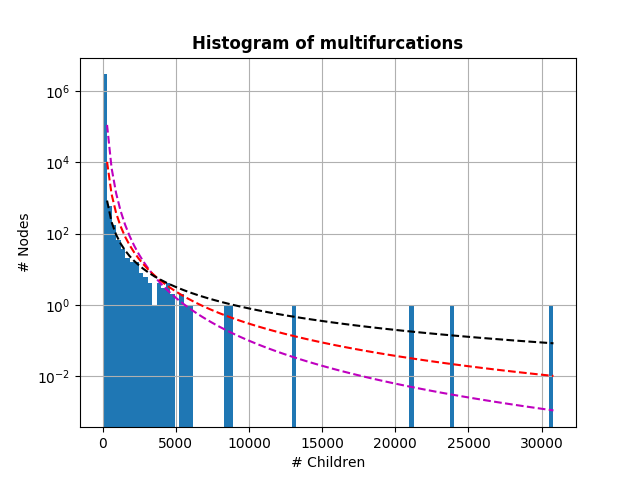
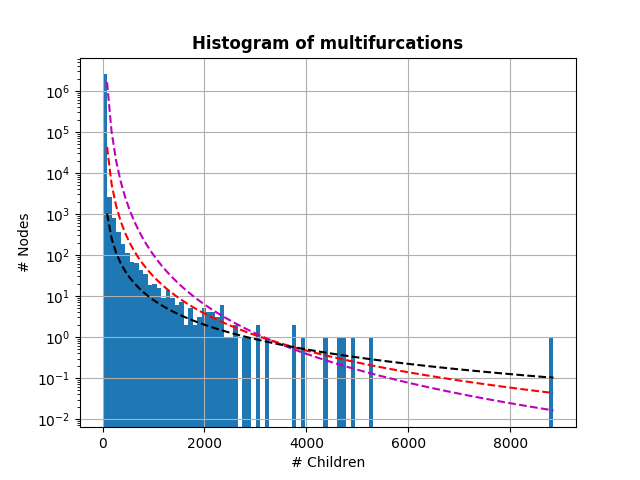
some plot changes

diff --git a/scripts/depth_plots.py b/scripts/depth_plots.py
@@ -3,7 +3,7 @@ import csv
 
 import matplotlib.patches as mpatches
 import matplotlib.pyplot as plt
-import numpy as np
+from numpy import log, power, sqrt
 
 # global variables:
 PLOT_NUMBER = 1
@@ -11,9 +11,7 @@ ROWS = 2
 COLS = 3
 
 def main():
-    global PLOT_NUMBER
-
-    f = open('../data/nodelist.csv', 'rt')
+    f = open('../data/nodelist/Eukaryota.csv', 'rt')
     reader = csv.reader(f)
     min_depths = []
     max_depths = []
@@ -21,15 +19,20 @@ def main():
     nr_children = []
     for r in reader:
         if r != []:
-            depths = ast.literal_eval(r[2])
+            depths = ast.literal_eval(r[1])
             min_depths.append(depths[0])
             max_depths.append(depths[1])
             mean_depths.append(depths[2])
             # if int(r[3]) > 2:
-            nr_children.append(int(r[3]))
+            nr_children.append(int(r[2]))
     f.close()
 
-    # print(nr_children)
+    plot_histograms_of_depths(min_depths, max_depths, mean_depths, nr_children)
+    plot_multifurcations(nr_children)
+    return
+
+def plot_histograms_of_depths(min_depths, max_depths, mean_depths, nr_children):
+    global PLOT_NUMBER
 
     f, axs = plt.subplots(ROWS, COLS, figsize=(14, 8))
     plt.suptitle('Histograms of metadata', fontsize=14, fontweight='bold')
@@ -61,25 +64,25 @@ def main():
     # -----------------------------------------------------------------------------
     plt.subplot(ROWS, COLS, PLOT_NUMBER)
     PLOT_NUMBER += 1
-    n, bins, patches = plt.hist(nr_children, NR_BINS)
+    n, bins, patches = plt.hist(nr_children, 100)
     plt.title("Histogram of multifurcations", fontweight='bold')
     plt.xlabel("# Children")
     plt.ylabel("# Nodes")
     plt.yscale('log')
     # Axes.loglog(*args, **kwargs)
-    plt.axis([0, 5000, Y_START, Y_END])
+    # plt.axis([-1, 35000, -1, Y_END])
     plt.grid(True)
 
     plt.subplot(ROWS, COLS, PLOT_NUMBER)
     PLOT_NUMBER += 1
-    n, bins, patches = plt.hist(nr_children, NR_BINS)
+    n, bins, patches = plt.hist(nr_children, 100)
     plt.title("Histogram of multifurcations - loglog", fontweight='bold')
     plt.xlabel("# Children")
     plt.ylabel("# Nodes")
     plt.xscale('log')
     plt.yscale('log')
     # Axes.loglog(*args, **kwargs)
-    plt.axis([0, 5000, Y_START, Y_END])
+    # plt.axis([0, 35000, Y_START, Y_END])
     plt.grid(True)
 
     # -----------------------------------------------------------------------------
@@ -120,5 +123,30 @@ def main():
     plt.grid(True)
 
     plt.show()
+    return
+
+def plot_multifurcations(nr_children):
+    fig = plt.figure()
+
+    n, bins, patches = plt.hist(nr_children, 100)
+
+    y3 = (100000000000000/power(bins, 4))
+    plt.plot(bins, y3, 'm--')
+
+    y1 = (30000000000/power(bins, 3))
+    plt.plot(bins, y1, 'r--')
+
+    y2 = (8000000/(bins*bins))
+    plt.plot(bins, y2, 'k--')
+
+    plt.title("Histogram of multifurcations", fontweight='bold')
+    plt.xlabel("# Children")
+    plt.ylabel("# Nodes")
+    plt.yscale('log')
+    # plt.axis([-1, 35000, -1, Y_END])
+    plt.grid(True)
+
+    plt.show()
+    return
 
 main()
